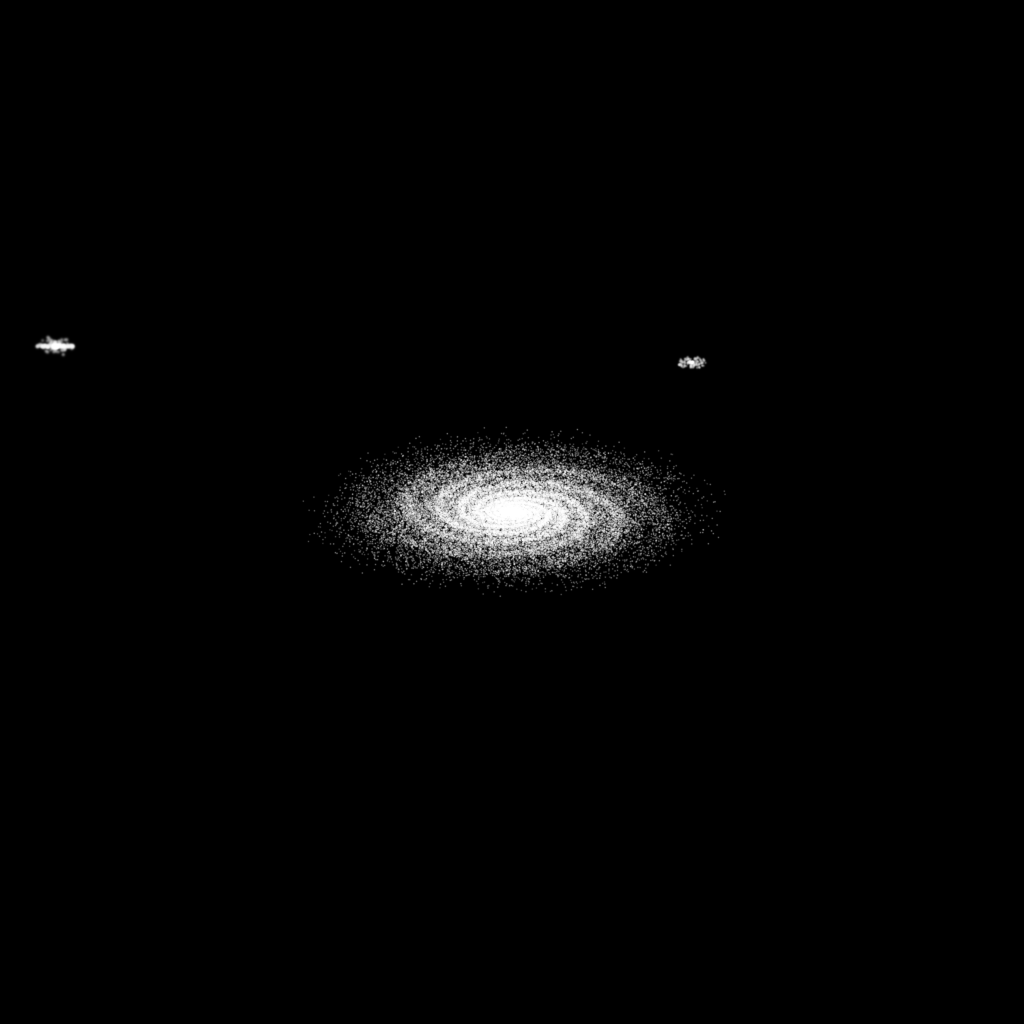
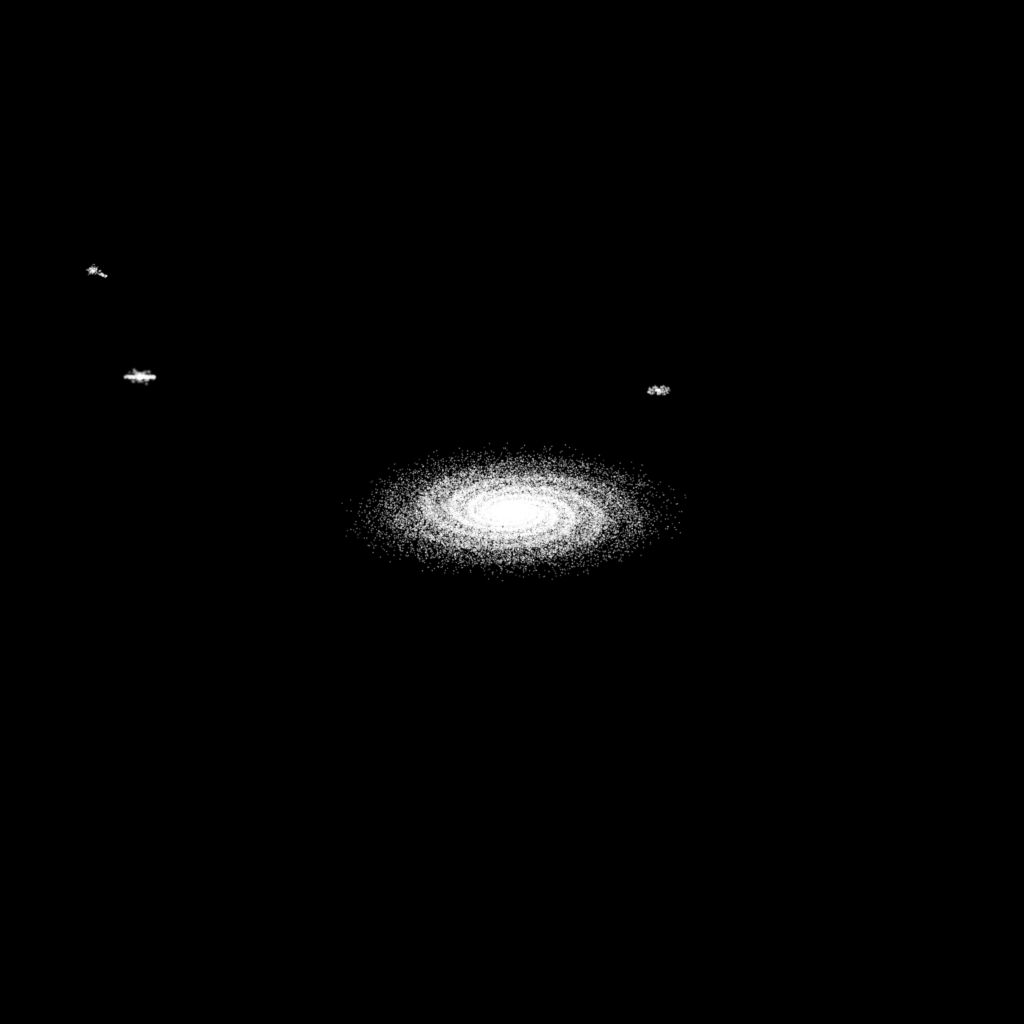
Corrige les gros blocs pixelisés autour de la Voie lactée (doublon milkyway/localgroup_real)
Diagnostic : LMC, SMC et la Naine du Sagittaire étaient rendues DEUX fois :
une fois nettement dans la texture 'milkyway' (haute résolution, dédiée à
l'environnement proche), une fois dans 'localgroup_real' (tout le Groupe
Local en 2.4 Mpc, ~14x moins précis à cette distance). Dans la zone de
fondu milkyway<->localgroup, les deux étaient visibles superposées — la
version basse résolution, agrandie ~30x lors du recadrage à ce niveau de
zoom, produisait les gros pâtés carrés constatés autour de la Voie lactée.

- generate_simulated_textures.mjs : le seuil d'inclusion dans 'milkyway'
  passe de 2.2x à 2.7x MW_R pour couvrir aussi le Petit Nuage de Magellan
  (qui passait juste à côté du seuil précédent). 'localgroup_real' exclut
  désormais explicitement toute galaxie déjà couverte par 'milkyway' à ce
  seuil, au lieu de dupliquer les 8 sans condition.
- Adouci aussi le rayon de coupure du splat gaussien (3.2σ -> 4.5σ) pour
  éviter tout bord carré visible en cas de zoom extrême futur.
- maxMpc de 'milkyway' recalculé (0.035075 -> 0.043047) et synchronisé dans
  DensityLayer.tsx + glow-test.html (point de vigilance connu, doc archi §0).

Non, aucun layer n'a été supprimé depuis la dernière fois — c'était bien un
doublon introduit par le changement du 6 juillet (pré-cuisson des textures).

diff --git a/app/public/glow-test.html b/app/public/glow-test.html
@@ -87,7 +87,7 @@ const LAYERS = [
   // scripts/generate_simulated_textures.mjs — pas des champs de densité
   // continus, cf. l'entrée correspondante dans app/src/densityStyle.ts
   // (halo/points désactivés pour ces deux-là).
-  { key: 'milkyway', maxMpc: 0.035075 },
+  { key: 'milkyway', maxMpc: 0.043047 },
   { key: 'localgroup_real', maxMpc: 2.4 },
   { key: 'localgroup', maxMpc: 2.4 },
   { key: 'l1b', maxMpc: 8.49 },

diff --git a/app/src/DensityLayer.tsx b/app/src/DensityLayer.tsx
@@ -26,7 +26,7 @@ interface ProceduralLayer {
 // scripts/generate_simulated_textures.mjs pour le calcul exact
 // (MW_R*2.2/LY_PER_MPC). Garder synchronisé si le script est relancé avec
 // d'autres paramètres.
-const MILKYWAY_MAX_MPC = 0.035075
+const MILKYWAY_MAX_MPC = 0.043047
 
 // Du plus petit au plus grand — cf. document d'architecture §4.1. "milkyway"
 // (disque + bulbe de la Voie lactée) et "localgroup_real" (les 8 galaxies